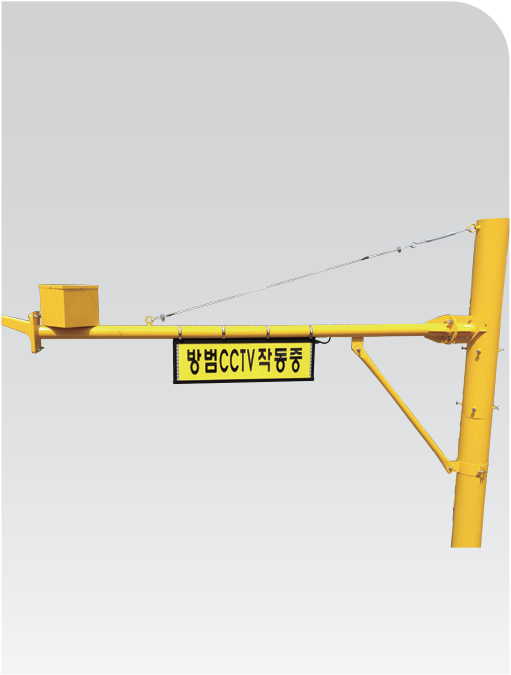
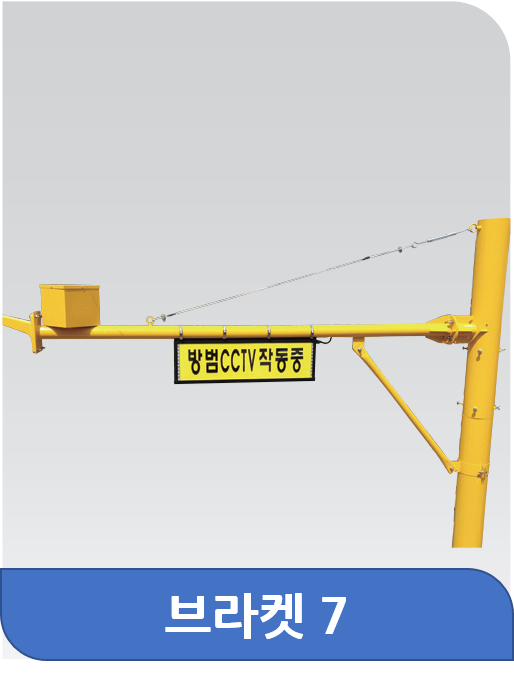
상품사진 변경(브라켓)

diff --git a/BKTech/src/main/resources/templates/portfolio.html b/BKTech/src/main/resources/templates/portfolio.html
@@ -117,8 +117,7 @@
             <div class="portfolio-item">
               <img src="assets/img/braket/braket1.png" class="img-fluid" alt="">
               <div class="portfolio-info">
-                <h3><a href="assets/img/braket/braket1-2.png" data-gall="portfolioGallery" class="venobox" title="Braket 1">브라켓 1</a></h3>
-                <a href="assets/img/braket/braket1-2.png" data-gall="portfolioGallery" class="venobox" title="Braket 1"><i class="icofont-plus"></i></a>
+                <h3><a href="assets/img/braket/braket1-1.png" data-gall="portfolioGallery" class="venobox" title="Braket 1">브라켓 1<br><i class="icofont-plus"></i></a></h3>
               </div>
             </div>
           </div>
@@ -127,8 +126,7 @@
             <div class="portfolio-item"> 
               <img src="assets/img/braket/braket2.png" class="img-fluid" alt="">
               <div class="portfolio-info">
-                <h3><a href="assets/img/braket/braket2.png" data-gall="portfolioGallery" class="venobox" title="Braket 2">브라켓 2</a></h3>
-                <a href="assets/img/braket/braket2.png" data-gall="portfolioGallery" class="venobox" title="Braket 2"><i class="icofont-plus"></i></a>
+                <h3><a href="assets/img/braket/braket2-1.png" data-gall="portfolioGallery" class="venobox" title="Braket 2">브라켓 2<br><i class="icofont-plus"></i></a></h3>
               </div>
             </div>
           </div>
@@ -137,8 +135,7 @@
             <div class="portfolio-item"> 
               <img src="assets/img/braket/braket3.png" class="img-fluid" alt="">
               <div class="portfolio-info">
-                <h3><a href="assets/img/braket/braket3.png" data-gall="portfolioGallery" class="venobox" title="Braket 3">브라켓 3</a></h3>
-                <a href="assets/img/braket/braket3.png" data-gall="portfolioGallery" class="venobox" title="Braket 3"><i class="icofont-plus"></i></a>
+                <h3><a href="assets/img/braket/braket3-1.png" data-gall="portfolioGallery" class="venobox" title="Braket 3">브라켓 3<br><i class="icofont-plus"></i></a></h3>
               </div>
             </div>
           </div>
@@ -147,8 +144,7 @@
             <div class="portfolio-item"> 
               <img src="assets/img/braket/braket4.png" class="img-fluid" alt="">
               <div class="portfolio-info">
-                <h3><a href="assets/img/braket/braket4.png" data-gall="portfolioGallery" class="venobox" title="Braket 4">브라켓 4</a></h3>
-                <a href="assets/img/braket/braket4.png" data-gall="portfolioGallery" class="venobox" title="Braket 4"><i class="icofont-plus"></i></a>
+                <h3><a href="assets/img/braket/braket4-1.png" data-gall="portfolioGallery" class="venobox" title="Braket 4">브라켓 4<br><i class="icofont-plus"></i></a></h3>
               </div>
             </div>
           </div>
@@ -157,8 +153,7 @@
             <div class="portfolio-item"> 
               <img src="assets/img/braket/braket5.png" class="img-fluid" alt="">
               <div class="portfolio-info">
-                <h3><a href="assets/img/braket/braket5.png" data-gall="portfolioGallery" class="venobox" title="Braket 5">브라켓 5</a></h3>
-                <a href="assets/img/braket/braket5.png" data-gall="portfolioGallery" class="venobox" title="Braket 5"><i class="icofont-plus"></i></a>
+                <h3><a href="assets/img/braket/braket5-1.png" data-gall="portfolioGallery" class="venobox" title="Braket 5">브라켓 5<br><i class="icofont-plus"></i></a></h3>
               </div>
             </div>
           </div>
@@ -167,8 +162,7 @@
             <div class="portfolio-item"> 
               <img src="assets/img/braket/braket6.png" class="img-fluid" alt="">
               <div class="portfolio-info">
-                <h3><a href="assets/img/braket/braket6.png" data-gall="portfolioGallery" class="venobox" title="Braket 6">브라켓 6</a></h3>
-                <a href="assets/img/braket/braket6.png" data-gall="portfolioGallery" class="venobox" title="Braket 6"><i class="icofont-plus"></i></a>
+                <h3><a href="assets/img/braket/braket6-1.png" data-gall="portfolioGallery" class="venobox" title="Braket 6">브라켓 6<br><i class="icofont-plus"></i></a></h3>
               </div>
             </div>
           </div>
@@ -177,8 +171,7 @@
             <div class="portfolio-item"> 
               <img src="assets/img/braket/braket7.png" class="img-fluid" alt="">
               <div class="portfolio-info">
-                <h3><a href="assets/img/braket/braket7.png" data-gall="portfolioGallery" class="venobox" title="Braket 7">브라켓 7</a></h3>
-                <a href="assets/img/braket/braket7.png" data-gall="portfolioGallery" class="venobox" title="Braket 7"><i class="icofont-plus"></i></a>
+                <h3><a href="assets/img/braket/braket7-1.png" data-gall="portfolioGallery" class="venobox" title="Braket 7">브라켓 7<br><i class="icofont-plus"></i></a></h3>
               </div>
             </div>
           </div>
@@ -187,8 +180,7 @@
             <div class="portfolio-item"> 
               <img src="assets/img/braket/braket8.png" class="img-fluid" alt="">
               <div class="portfolio-info">
-                <h3><a href="assets/img/braket/braket8.png" data-gall="portfolioGallery" class="venobox" title="Braket 8">브라켓 8</a></h3>
-                <a href="assets/img/braket/braket8.png" data-gall="portfolioGallery" class="venobox" title="Braket 8"><i class="icofont-plus"></i></a>
+                <h3><a href="assets/img/braket/braket8-1.png" data-gall="portfolioGallery" class="venobox" title="Braket 8">브라켓 8<br><i class="icofont-plus"></i></a></h3>
               </div>
             </div>
           </div>
@@ -197,8 +189,7 @@
             <div class="portfolio-item"> 
               <img src="assets/img/braket/braket9.png" class="img-fluid" alt="">
               <div class="portfolio-info">
-                <h3><a href="assets/img/braket/braket9.png" data-gall="portfolioGallery" class="venobox" title="Braket 9">브라켓 9</a></h3>
-                <a href="assets/img/braket/braket9.png" data-gall="portfolioGallery" class="venobox" title="Braket 9"><i class="icofont-plus"></i></a>
+                <h3><a href="assets/img/braket/braket9-1.png" data-gall="portfolioGallery" class="venobox" title="Braket 9">브라켓 9<br><i class="icofont-plus"></i></a></h3>
               </div>
             </div>
           </div>
@@ -207,8 +198,7 @@
             <div class="portfolio-item"> 
               <img src="assets/img/braket/braket10.png" class="img-fluid" alt="">
               <div class="portfolio-info">
-                <h3><a href="assets/img/braket/braket10.png" data-gall="portfolioGallery" class="venobox" title="Braket 10">브라켓 10</a></h3>
-                <a href="assets/img/braket/braket10.png" data-gall="portfolioGallery" class="venobox" title="Braket 10"><i class="icofont-plus"></i></a>
+                <h3><a href="assets/img/braket/braket10-1.png" data-gall="portfolioGallery" class="venobox" title="Braket 10">브라켓 10<br><i class="icofont-plus"></i></a></h3>
               </div>
             </div>
           </div>
@@ -217,8 +207,7 @@
             <div class="portfolio-item"> 
               <img src="assets/img/braket/braket11.png" class="img-fluid" alt="">
               <div class="portfolio-info">
-                <h3><a href="assets/img/braket/braket11.png" data-gall="portfolioGallery" class="venobox" title="Braket 11">브라켓 11</a></h3>
-                <a href="assets/img/braket/braket11.png" data-gall="portfolioGallery" class="venobox" title="Braket 11"><i class="icofont-plus"></i></a>
+                <h3><a href="assets/img/braket/braket11-1.png" data-gall="portfolioGallery" class="venobox" title="Braket 11">브라켓 11<br><i class="icofont-plus"></i></a></h3>
               </div>
             </div>
           </div>
@@ -227,8 +216,7 @@
             <div class="portfolio-item"> 
               <img src="assets/img/braket/braket12.png" class="img-fluid" alt="">
               <div class="portfolio-info">
-                <h3><a href="assets/img/braket/braket12.png" data-gall="portfolioGallery" class="venobox" title="Braket 12">브라켓 12</a></h3>
-                <a href="assets/img/braket/braket12.png" data-gall="portfolioGallery" class="venobox" title="Braket 12"><i class="icofont-plus"></i></a>
+                <h3><a href="assets/img/braket/braket12-1.png" data-gall="portfolioGallery" class="venobox" title="Braket 12">브라켓 12<br><i class="icofont-plus"></i></a></h3>
               </div>
             </div>
           </div>
@@ -237,8 +225,7 @@
             <div class="portfolio-item"> 
               <img src="assets/img/braket/braket13.png" class="img-fluid" alt="">
               <div class="portfolio-info">
-                <h3><a href="assets/img/braket/braket13.png" data-gall="portfolioGallery" class="venobox" title="Braket 13">브라켓 13</a></h3>
-                <a href="assets/img/braket/braket13.png" data-gall="portfolioGallery" class="venobox" title="Braket 13"><i class="icofont-plus"></i></a>
+                <h3><a href="assets/img/braket/braket13-1.png" data-gall="portfolioGallery" class="venobox" title="Braket 13">브라켓 13<br><i class="icofont-plus"></i></a></h3>
               </div>
             </div>
           </div>
